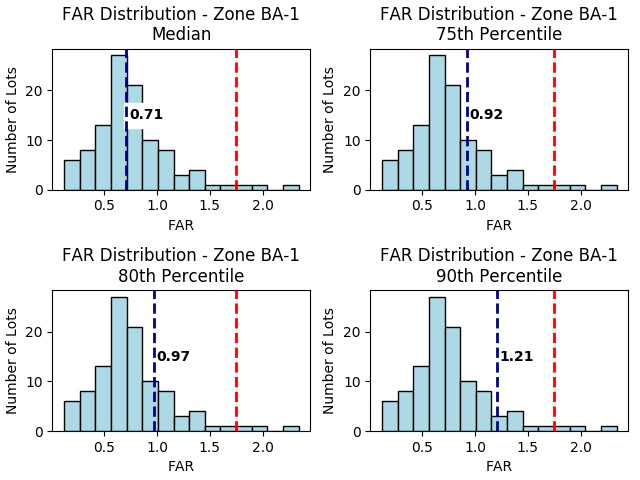
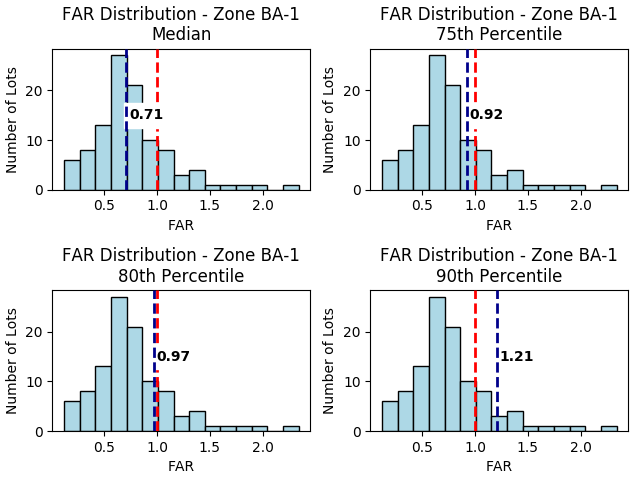
Fix graph of zone BA-1

diff --git a/data_processing/plot_graph.py b/data_processing/plot_graph.py
@@ -15,6 +15,7 @@ ROOT      = "/home/charles/Projects/cambridge_property_db/"
 STATS     = os.path.join(ROOT, "stats")
 GRAPHS    = os.path.join(ROOT, "graphs")
 DATA_PATH = os.path.join(STATS, "lots_all.csv")
+OVERWRITE = False
 
 
 ZONES = {
@@ -24,7 +25,7 @@ ZONES = {
     "C": 0.6,
     "C-1": 0.75,
     "BA": 1.75,
-    "BA-1": 1.75,
+    "BA-1": 1.00,
     "BA-2": 1.75,
     "BA-3": 1.75,
     "BA-4": 1.75,
@@ -50,6 +51,10 @@ def main():
         if ZONES and zone not in ZONES:
             continue
 
+        out_path = os.path.join(GRAPHS, f"zone_{zone}.png")
+        if os.path.isfile(out_path) and not OVERWRITE:
+            continue
+
         ## Get data
         zone_data = data[zone_values == zone]
         far_values = zone_data['FAR'].to_numpy()
@@ -72,7 +77,7 @@ def main():
         ## Show
         #plt.tight_layout(rect=[0, 0.03, 1, 0.95])
         fig.tight_layout(pad=0.4, w_pad=0.5, h_pad=1.0)
-        plt.savefig(os.path.join(GRAPHS, f"zone_{zone}.png"))
+        plt.savefig(out_path)
         #plt.show()
         plt.clf()
 
